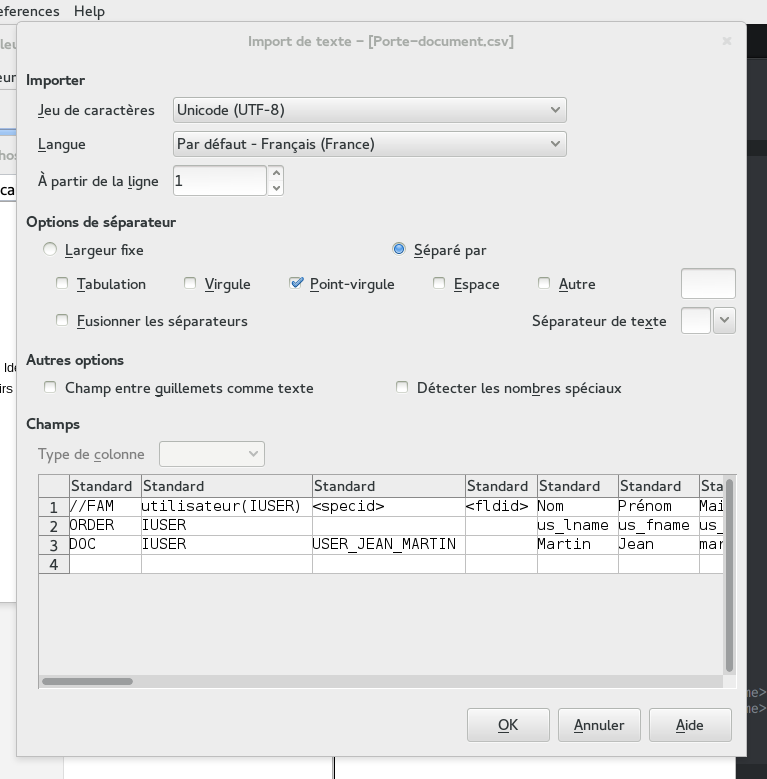
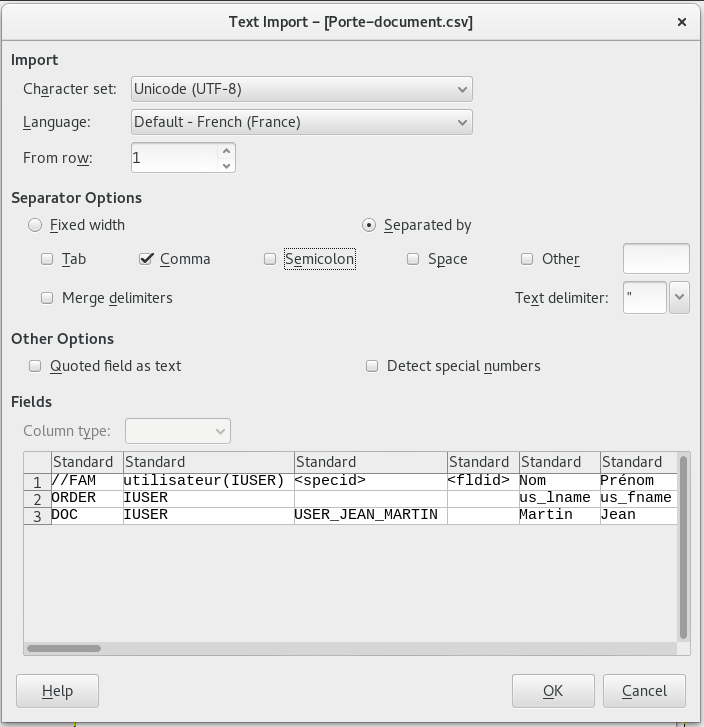
feat(csv): update CSV conf

diff --git a/Contents/30-Famille/20-structure.md b/Contents/30-Famille/20-structure.md
@@ -118,8 +118,8 @@ Vous devez maintenant indiquer dans le fichier `info.xml` que cette famille doit
 et la mise à jour. Vous allez ajouter les lignes suivantes :
 
     [xml]
-    <process command='./wsh.php --api=importDocuments --file=./COGIP_AUDIT/COPGIP_AUDIT_BASE__STRUCT.csv --csv-separator=&apos;;&apos; '/>
-    <process command='./wsh.php --api=importDocuments --file=./COGIP_AUDIT/COPGIP_AUDIT_BASE__PARAM.csv --csv-separator=&apos;;&apos; '/>
+    <process command='./wsh.php --api=importDocuments --file=./COGIP_AUDIT/COPGIP_AUDIT_BASE__STRUCT.csv --csv-separator=&apos;,&apos; --csv-enclosure=&apos;"&apos;'/>
+    <process command='./wsh.php --api=importDocuments --file=./COGIP_AUDIT/COPGIP_AUDIT_BASE__PARAM.csv --csv-separator=&apos;,&apos; --csv-enclosure=&apos;"&apos;'/>
 
 <span class="flag inline nota-bene"></span> Ces deux lignes vous sont retournées par la commande de création des fichiers.
 
@@ -133,19 +133,19 @@ Vous devez avoir un fichier `info.xml` semblable à :
     [xml]
     <post-install>
         <process command="programs/record_application COGIP_AUDIT" />
-        <process command='./wsh.php --api=importDocuments  --file=./COGIP_AUDIT/ROLE__INIT_DATA.csv --csv-separator=&apos;;&apos;'/>
-        <process command='./wsh.php --api=importDocuments  --file=./COGIP_AUDIT/IGROUP__INIT_DATA.csv --csv-separator=&apos;;&apos;'/>
-        <process command='./wsh.php --api=importDocuments  --file=./COGIP_AUDIT/IUSER__INIT_DATA.csv --csv-separator=&apos;;&apos;'/>
-        <process command='./wsh.php --api=importDocuments --file=./COGIP_AUDIT/COPGIP_AUDIT_BASE__STRUCT.csv --csv-separator=&apos;;&apos; '/>
-        <process command='./wsh.php --api=importDocuments --file=./COGIP_AUDIT/COPGIP_AUDIT_BASE__PARAM.csv --csv-separator=&apos;;&apos;'/>
+        <process command='./wsh.php --api=importDocuments  --file=./COGIP_AUDIT/ROLE__INIT_DATA.csv --csv-separator=&apos;,&apos; --csv-enclosure=&apos;"&apos;'/>
+        <process command='./wsh.php --api=importDocuments  --file=./COGIP_AUDIT/IGROUP__INIT_DATA.csv --csv-separator=&apos;,&apos; --csv-enclosure=&apos;"&apos;'/>
+        <process command='./wsh.php --api=importDocuments  --file=./COGIP_AUDIT/IUSER__INIT_DATA.csv --csv-separator=&apos;,&apos; --csv-enclosure=&apos;"&apos;'/>
+        <process command='./wsh.php --api=importDocuments --file=./COGIP_AUDIT/COPGIP_AUDIT_BASE__STRUCT.csv --csv-separator=&apos;,&apos; --csv-enclosure=&apos;"&apos;'/>
+        <process command='./wsh.php --api=importDocuments --file=./COGIP_AUDIT/COPGIP_AUDIT_BASE__PARAM.csv --csv-separator=&apos;,&apos; --csv-enclosure=&apos;"&apos;'/>
         <process command="programs/update_catalog" />
     </post-install>
     
     <post-upgrade>
         <process command="programs/pre_migration COGIP_AUDIT" />
         <process command="programs/record_application COGIP_AUDIT" />
-        <process command='./wsh.php --api=importDocuments --file=./COGIP_AUDIT/COPGIP_AUDIT_BASE__STRUCT.csv --csv-separator=&apos;;&apos; '/>
-        <process command='./wsh.php --api=importDocuments --file=./COGIP_AUDIT/COPGIP_AUDIT_BASE__PARAM.csv --csv-separator=&apos;;&apos;'/>
+        <process command='./wsh.php --api=importDocuments --file=./COGIP_AUDIT/COPGIP_AUDIT_BASE__STRUCT.csv --csv-separator=&apos;,&apos; --csv-enclosure=&apos;"&apos;'/>
+        <process command='./wsh.php --api=importDocuments --file=./COGIP_AUDIT/COPGIP_AUDIT_BASE__PARAM.csv --csv-separator=&apos;,&apos; --csv-enclosure=&apos;"&apos;'/>
         <process command="programs/post_migration COGIP_AUDIT" />
         <process command="programs/update_catalog" />
     </post-upgrade>
@@ -170,34 +170,34 @@ Votre `info.xml` contient les lignes suivantes :
     [xml]
     <post-install>
         <process command="programs/record_application COGIP_AUDIT"/>
-        <process command='./wsh.php --api=importDocuments --file=./COGIP_AUDIT/ROLE__INIT_DATA.csv --csv-separator=&apos;;&apos;'/>
-        <process command='./wsh.php --api=importDocuments --file=./COGIP_AUDIT/IGROUP__INIT_DATA.csv --csv-separator=&apos;;&apos;'/>
-        <process command='./wsh.php --api=importDocuments --file=./COGIP_AUDIT/IUSER__INIT_DATA.csv --csv-separator=&apos;;&apos;'/>
-        <process command='./wsh.php --api=importDocuments --file=./COGIP_AUDIT/COGIP_AUDIT_BASE__STRUCT.csv --csv-separator=&apos;;&apos; '/>
-        <process command='./wsh.php --api=importDocuments --file=./COGIP_AUDIT/COGIP_AUDIT_BASE__PARAM.csv --csv-separator=&apos;;&apos;'/>
-        <process command='./wsh.php --api=importDocuments --file=./COGIP_AUDIT/COGIP_AUDIT_REFERENTIEL__STRUCT.csv --csv-separator=&apos;;&apos; '/>
-        <process command='./wsh.php --api=importDocuments --file=./COGIP_AUDIT/COGIP_AUDIT_REFERENTIEL__PARAM.csv --csv-separator=&apos;;&apos; '/>
-        <process command='./wsh.php --api=importDocuments --file=./COGIP_AUDIT/COGIP_AUDIT_CHAPITRE__STRUCT.csv --csv-separator=&apos;;&apos; '/>
-        <process command='./wsh.php --api=importDocuments --file=./COGIP_AUDIT/COGIP_AUDIT_CHAPITRE__PARAM.csv --csv-separator=&apos;;&apos; '/>
-        <process command='./wsh.php --api=importDocuments --file=./COGIP_AUDIT/COGIP_AUDIT_AUDIT__STRUCT.csv --csv-separator=&apos;;&apos; '/>
-        <process command='./wsh.php --api=importDocuments --file=./COGIP_AUDIT/COGIP_AUDIT_AUDIT__PARAM.csv --csv-separator=&apos;;&apos; '/>
-        <process command='./wsh.php --api=importDocuments --file=./COGIP_AUDIT/COGIP_AUDIT_FNC__STRUCT.csv --csv-separator=&apos;;&apos; '/>
-        <process command='./wsh.php --api=importDocuments --file=./COGIP_AUDIT/COGIP_AUDIT_FNC__PARAM.csv --csv-separator=&apos;;&apos; '/>
+        <process command='./wsh.php --api=importDocuments --file=./COGIP_AUDIT/ROLE__INIT_DATA.csv --csv-separator=&apos;,&apos; --csv-enclosure=&apos;"&apos;'/>
+        <process command='./wsh.php --api=importDocuments --file=./COGIP_AUDIT/IGROUP__INIT_DATA.csv --csv-separator=&apos;,&apos; --csv-enclosure=&apos;"&apos;'/>
+        <process command='./wsh.php --api=importDocuments --file=./COGIP_AUDIT/IUSER__INIT_DATA.csv --csv-separator=&apos;,&apos; --csv-enclosure=&apos;"&apos;'/>
+        <process command='./wsh.php --api=importDocuments --file=./COGIP_AUDIT/COGIP_AUDIT_BASE__STRUCT.csv --csv-separator=&apos;,&apos; --csv-enclosure=&apos;"&apos; '/>
+        <process command='./wsh.php --api=importDocuments --file=./COGIP_AUDIT/COGIP_AUDIT_BASE__PARAM.csv --csv-separator=&apos;,&apos; --csv-enclosure=&apos;"&apos;'/>
+        <process command='./wsh.php --api=importDocuments --file=./COGIP_AUDIT/COGIP_AUDIT_REFERENTIEL__STRUCT.csv --csv-separator=&apos;,&apos; --csv-enclosure=&apos;"&apos; '/>
+        <process command='./wsh.php --api=importDocuments --file=./COGIP_AUDIT/COGIP_AUDIT_REFERENTIEL__PARAM.csv --csv-separator=&apos;,&apos; --csv-enclosure=&apos;"&apos; '/>
+        <process command='./wsh.php --api=importDocuments --file=./COGIP_AUDIT/COGIP_AUDIT_CHAPITRE__STRUCT.csv --csv-separator=&apos;,&apos; --csv-enclosure=&apos;"&apos; '/>
+        <process command='./wsh.php --api=importDocuments --file=./COGIP_AUDIT/COGIP_AUDIT_CHAPITRE__PARAM.csv --csv-separator=&apos;,&apos; --csv-enclosure=&apos;"&apos; '/>
+        <process command='./wsh.php --api=importDocuments --file=./COGIP_AUDIT/COGIP_AUDIT_AUDIT__STRUCT.csv --csv-separator=&apos;,&apos; --csv-enclosure=&apos;"&apos; '/>
+        <process command='./wsh.php --api=importDocuments --file=./COGIP_AUDIT/COGIP_AUDIT_AUDIT__PARAM.csv --csv-separator=&apos;,&apos; --csv-enclosure=&apos;"&apos; '/>
+        <process command='./wsh.php --api=importDocuments --file=./COGIP_AUDIT/COGIP_AUDIT_FNC__STRUCT.csv --csv-separator=&apos;,&apos; --csv-enclosure=&apos;"&apos; '/>
+        <process command='./wsh.php --api=importDocuments --file=./COGIP_AUDIT/COGIP_AUDIT_FNC__PARAM.csv --csv-separator=&apos;,&apos; --csv-enclosure=&apos;"&apos; '/>
         <process command="programs/update_catalog"/>
     </post-install>
     <post-upgrade>
         <process command="programs/pre_migration COGIP_AUDIT"/>
         <process command="programs/record_application COGIP_AUDIT"/>
-        <process command='./wsh.php --api=importDocuments --file=./COGIP_AUDIT/COGIP_AUDIT_BASE__STRUCT.csv --csv-separator=&apos;;&apos; '/>
-        <process command='./wsh.php --api=importDocuments --file=./COGIP_AUDIT/COGIP_AUDIT_BASE__PARAM.csv --csv-separator=&apos;;&apos;'/>
-        <process command='./wsh.php --api=importDocuments --file=./COGIP_AUDIT/COGIP_AUDIT_REFERENTIEL__STRUCT.csv --csv-separator=&apos;;&apos; '/>
-        <process command='./wsh.php --api=importDocuments --file=./COGIP_AUDIT/COGIP_AUDIT_REFERENTIEL__PARAM.csv --csv-separator=&apos;;&apos; '/>
-        <process command='./wsh.php --api=importDocuments --file=./COGIP_AUDIT/COGIP_AUDIT_CHAPITRE__STRUCT.csv --csv-separator=&apos;;&apos; '/>
-        <process command='./wsh.php --api=importDocuments --file=./COGIP_AUDIT/COGIP_AUDIT_CHAPITRE__PARAM.csv --csv-separator=&apos;;&apos; '/>
-        <process command='./wsh.php --api=importDocuments --file=./COGIP_AUDIT/COGIP_AUDIT_AUDIT__STRUCT.csv --csv-separator=&apos;;&apos; '/>
-        <process command='./wsh.php --api=importDocuments --file=./COGIP_AUDIT/COGIP_AUDIT_AUDIT__PARAM.csv --csv-separator=&apos;;&apos; '/>
-        <process command='./wsh.php --api=importDocuments --file=./COGIP_AUDIT/COGIP_AUDIT_FNC__STRUCT.csv --csv-separator=&apos;;&apos; '/>
-        <process command='./wsh.php --api=importDocuments --file=./COGIP_AUDIT/COGIP_AUDIT_FNC__PARAM.csv --csv-separator=&apos;;&apos; '/>
+        <process command='./wsh.php --api=importDocuments --file=./COGIP_AUDIT/COGIP_AUDIT_BASE__STRUCT.csv --csv-separator=&apos;,&apos; --csv-enclosure=&apos;"&apos; '/>
+        <process command='./wsh.php --api=importDocuments --file=./COGIP_AUDIT/COGIP_AUDIT_BASE__PARAM.csv --csv-separator=&apos;,&apos; --csv-enclosure=&apos;"&apos;'/>
+        <process command='./wsh.php --api=importDocuments --file=./COGIP_AUDIT/COGIP_AUDIT_REFERENTIEL__STRUCT.csv --csv-separator=&apos;,&apos; --csv-enclosure=&apos;"&apos; '/>
+        <process command='./wsh.php --api=importDocuments --file=./COGIP_AUDIT/COGIP_AUDIT_REFERENTIEL__PARAM.csv --csv-separator=&apos;,&apos; --csv-enclosure=&apos;"&apos; '/>
+        <process command='./wsh.php --api=importDocuments --file=./COGIP_AUDIT/COGIP_AUDIT_CHAPITRE__STRUCT.csv --csv-separator=&apos;,&apos; --csv-enclosure=&apos;"&apos; '/>
+        <process command='./wsh.php --api=importDocuments --file=./COGIP_AUDIT/COGIP_AUDIT_CHAPITRE__PARAM.csv --csv-separator=&apos;,&apos; --csv-enclosure=&apos;"&apos; '/>
+        <process command='./wsh.php --api=importDocuments --file=./COGIP_AUDIT/COGIP_AUDIT_AUDIT__STRUCT.csv --csv-separator=&apos;,&apos; --csv-enclosure=&apos;"&apos; '/>
+        <process command='./wsh.php --api=importDocuments --file=./COGIP_AUDIT/COGIP_AUDIT_AUDIT__PARAM.csv --csv-separator=&apos;,&apos; --csv-enclosure=&apos;"&apos; '/>
+        <process command='./wsh.php --api=importDocuments --file=./COGIP_AUDIT/COGIP_AUDIT_FNC__STRUCT.csv --csv-separator=&apos;,&apos; --csv-enclosure=&apos;"&apos; '/>
+        <process command='./wsh.php --api=importDocuments --file=./COGIP_AUDIT/COGIP_AUDIT_FNC__PARAM.csv --csv-separator=&apos;,&apos; --csv-enclosure=&apos;"&apos; '/>
         <process command="programs/post_migration COGIP_AUDIT"/>
         <process command="programs/update_catalog"/>
     </post-upgrade>

diff --git a/Contents/20-Compte/20-account.md b/Contents/20-Compte/20-account.md
@@ -134,8 +134,8 @@ Veuillez cliquer sur `Exporter` en laissant les options par défaut.
 Un fichier CSV vous est proposé au téléchargement, celui-ci est encodé avec les paramètres suivants :
 
 -   Jeu de caractères : `UTF8`,
--   Séparateur de cellule : `;`,
--   Séparateur de texte : ``.
+-   Séparateur de cellule : `,`,
+-   Séparateur de texte : `"`.
 
 Le logiciel conseillé pour ouvrir ces documents est Libre Office. Avec ce logiciel, le fenêtre de paramétrage avant ouverture du fichier est :
 
@@ -192,7 +192,7 @@ Ce fichier déclare les actions réalisées lors de l'installation ou la mise à
 Vous allez donc ajouter la ligne suivante pour demander l'import des utilisateurs :
 
     [xml]
-    <process command='./wsh.php --api=importDocuments  --file=./COGIP_AUDIT/IUSER__INIT_DATA.csv --csv-separator=&apos;;&apos;'/>
+    <process command='./wsh.php --api=importDocuments  --file=./COGIP_AUDIT/IUSER__INIT_DATA.csv --csv-separator=&apos;,&apos;  -csv-enclosure=&apos;"&apos;'/>
 
 entre les lignes de la partie installation (`post-install`):
 
@@ -274,15 +274,15 @@ Ouvrez le et supprimez les colonnes non nécessaires pour ne garder que :
 Enregistrez le fichier dans le répertoire `COGIP_AUDIT` sous le nom `IGROUP__INIT_DATA.csv`.
 
 Ensuite, ajoutez dans le fichier `info.xml` l'instruction suivante :
-`<process command='./wsh.php --api=importDocuments  --file=./COGIP_AUDIT/IGROUP__INIT_DATA.csv --csv-separator=&apos;;&apos;'/>`
+`<process command='./wsh.php --api=importDocuments  --file=./COGIP_AUDIT/IGROUP__INIT_DATA.csv --csv-separator=&apos;,&apos; --csv-enclosure=&apos;"&apos;'/>`
 
 Les groupes contenant les utilisateurs, ils doivent être importés *avant* les utilisateurs.
 
 Ce qui donne l'ordre suivant pour la procédure d'installation :
 
         <process command="programs/record_application COGIP_AUDIT"/>
-        <process command='./wsh.php --api=importDocuments  --file=./COGIP_AUDIT/IGROUP__INIT_DATA.csv --csv-separator=&apos;;&apos;'/>
-        <process command='./wsh.php --api=importDocuments  --file=./COGIP_AUDIT/IUSER__INIT_DATA.csv --csv-separator=&apos;;&apos;'/>
+        <process command='./wsh.php --api=importDocuments  --file=./COGIP_AUDIT/IGROUP__INIT_DATA.csv --csv-separator=&apos;,&apos; --csv-enclosure=&apos;"&apos;'/>
+        <process command='./wsh.php --api=importDocuments  --file=./COGIP_AUDIT/IUSER__INIT_DATA.csv --csv-separator=&apos;,&apos; --csv-enclosure=&apos;"&apos;'/>
         <process command="programs/update_catalog"/>
 
 Pour créer les autres groupes, de la même manière que pour les utilisateurs, vous pouvez dupliquer la 3ème ligne.
@@ -363,16 +363,16 @@ Ouvrez le et supprimez les colonnes inutiles, pour ne garder que :
 Sauvez le fichier dans le répertoire `COGIP_AUDIT` sous le nom `ROLE__INIT_DATA.csv`.
 
 Ensuite, ajoutez dans le fichier info.xml l'instruction suivante : 
-`<process command='./wsh.php --api=importDocuments  --file=./COGIP_AUDIT/ROLE__INIT_DATA.csv --csv-separator=&apos;;&apos;'/>`
+`<process command='./wsh.php --api=importDocuments  --file=./COGIP_AUDIT/ROLE__INIT_DATA.csv --csv-separator=&apos;,&apos; --csv-enclosure=&apos;"&apos;'/>`
 
 Les rôles pouvant être associés aux groupes et aux utilisateurs, ils doivent être importés en premier.
 
 Ce qui donne pour la procédure d'installation :
 
     <process command="programs/record_application COGIP_AUDIT"/>
-    <process command='./wsh.php --api=importDocuments  --file=./COGIP_AUDIT/ROLE__INIT_DATA.csv --csv-separator=&apos;;&apos;'/>
-    <process command='./wsh.php --api=importDocuments  --file=./COGIP_AUDIT/IGROUP__INIT_DATA.csv --csv-separator=&apos;;&apos;'/>
-    <process command='./wsh.php --api=importDocuments  --file=./COGIP_AUDIT/IUSER__INIT_DATA.csv --csv-separator=&apos;;&apos;'/>
+    <process command='./wsh.php --api=importDocuments  --file=./COGIP_AUDIT/ROLE__INIT_DATA.csv --csv-separator=&apos;,&apos; --csv-enclosure=&apos;"&apos;'/>
+    <process command='./wsh.php --api=importDocuments  --file=./COGIP_AUDIT/IGROUP__INIT_DATA.csv --csv-separator=&apos;,&apos; --csv-enclosure=&apos;"&apos;'/>
+    <process command='./wsh.php --api=importDocuments  --file=./COGIP_AUDIT/IUSER__INIT_DATA.csv --csv-separator=&apos;,&apos; --csv-enclosure=&apos;"&apos;'/>
     <process command="programs/update_catalog"/>
 
 En procédant comme pour les utilisateurs ou les groupes, vous allez initialiser les autres rôles (duplication de la ligne contenant l'instruction `DOC`).

diff --git a/Contents/40-Cycle/20-structure.md b/Contents/40-Cycle/20-structure.md
@@ -389,9 +389,9 @@ Ajoutez la ligne suivante dans le `info.xml` à l'installation et à la mise à 
 `<process command="./wsh.php --api=importDocuments --file=./COGIP_AUDIT/COGIP_AUDIT_AUDIT__PARAM.csv"/>`:
 
     [xml]
-    <process command='./wsh.php --api=importDocuments --file=./COGIP_AUDIT/COGIP_AUDIT_AUDIT__STRUCT.csv --csv-separator=&apos;;&apos; '/>
-    <process command='./wsh.php --api=importDocuments --file=./COGIP_AUDIT/COGIP_AUDIT_AUDIT__WFL.csv --csv-separator=&apos;;&apos; '/>
-    <process command='./wsh.php --api=importDocuments --file=./COGIP_AUDIT/COGIP_AUDIT_AUDIT__PARAM.csv --csv-separator=&apos;;&apos; '/>
+    <process command='./wsh.php --api=importDocuments --file=./COGIP_AUDIT/COGIP_AUDIT_AUDIT__STRUCT.csv --csv-separator=&apos;,&apos; --csv-enclosure=&apos;"&apos;'/>
+    <process command='./wsh.php --api=importDocuments --file=./COGIP_AUDIT/COGIP_AUDIT_AUDIT__WFL.csv --csv-separator=&apos;,&apos; --csv-enclosure=&apos;"&apos;'/>
+    <process command='./wsh.php --api=importDocuments --file=./COGIP_AUDIT/COGIP_AUDIT_AUDIT__PARAM.csv --csv-separator=&apos;,&apos; --csv-enclosure=&apos;"&apos;'/>
 
 ## Génération du document {#quickstart:c343a2f1-6ad0-4ad2-bbdb-bfed3ddd846c}
 

diff --git a/Contents/10-Préparation/30-module.md b/Contents/10-Préparation/30-module.md
@@ -81,7 +81,7 @@ Cette commande va intialiser pour vous une structure de module Dynacase type, pr
 
 Dans notre cas, vous rentrez les options suivantes :
 
-    <devtool> createModule  -o . -n cogip-audit -a COGIP_AUDIT -xspi -e
+    <devtool> createModule  -o . -n cogip_audit -a COGIP_AUDIT -xspi -d \,
 
 Cela crée, dans le répertoire courant, la structure de fichiers suivante :
 
@@ -276,7 +276,8 @@ comme indiqué ci-dessus :
 
 Afin de simplifier cette succession d'étapes, les devtool fournissent la commande `deploy`.
 
-Lors de son premier usage, il faut préciser tous les paramètres de déploiement, ainsi qu'une _target_, dans laquelle seront mémorisés ces paramètres pour simplifier les déploiements futurs :
+Lors de son premier usage, il faut préciser tous les paramètres de déploiement, ainsi qu'une _target_, dans laquelle sont
+ mémorisés ces paramètres pour simplifier les déploiements futurs :
 
 -   `--target` : le nom de la target
 -   `--url` : l'url d'accès à Dynacase Control (sous la forme `http[s]://<user>:<password>@<host>/<path/to/control>`)
